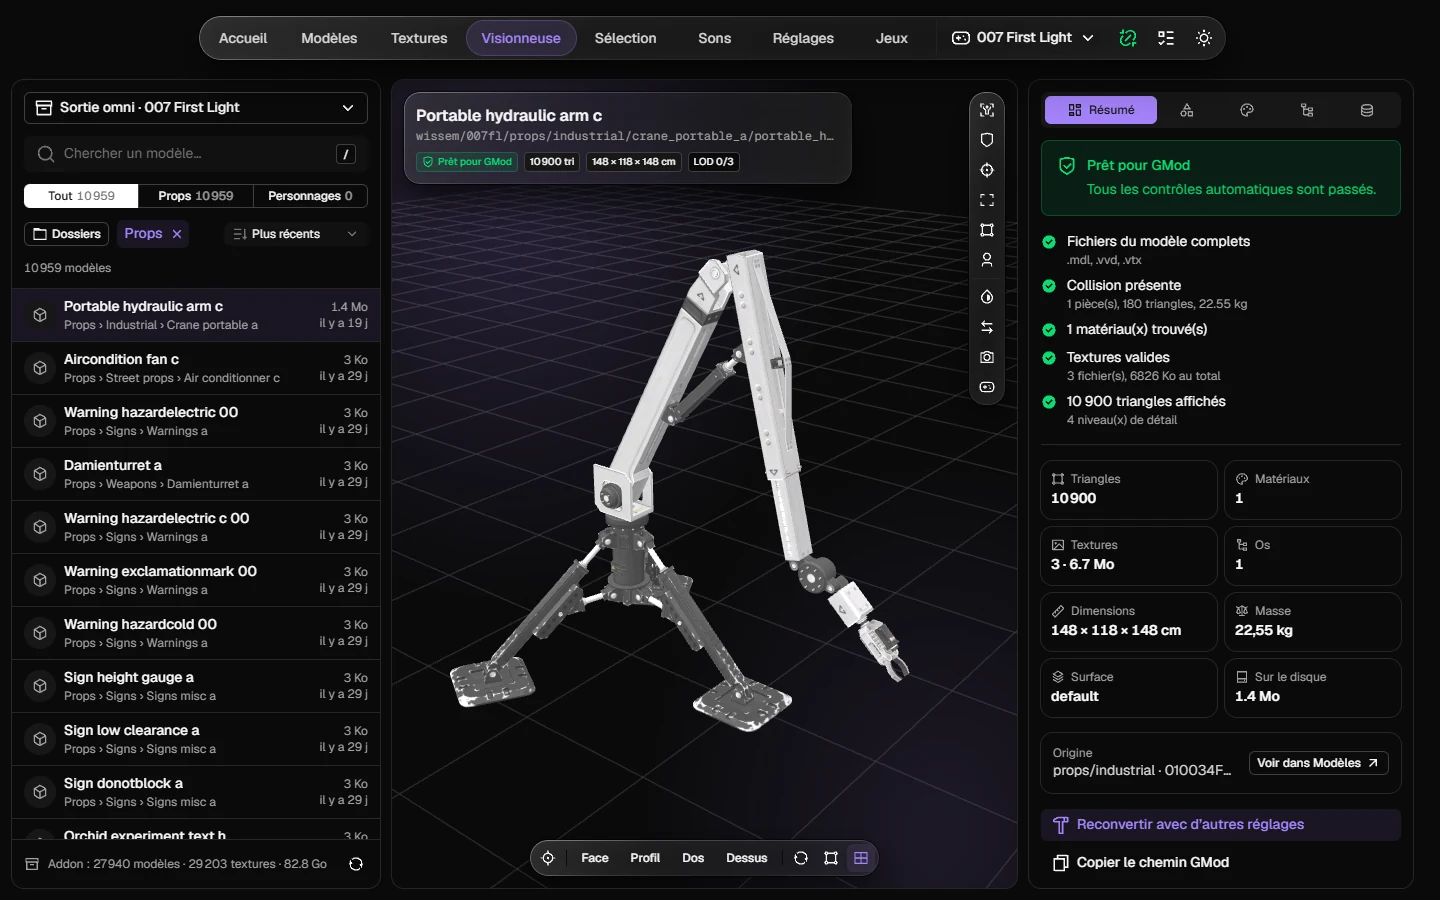
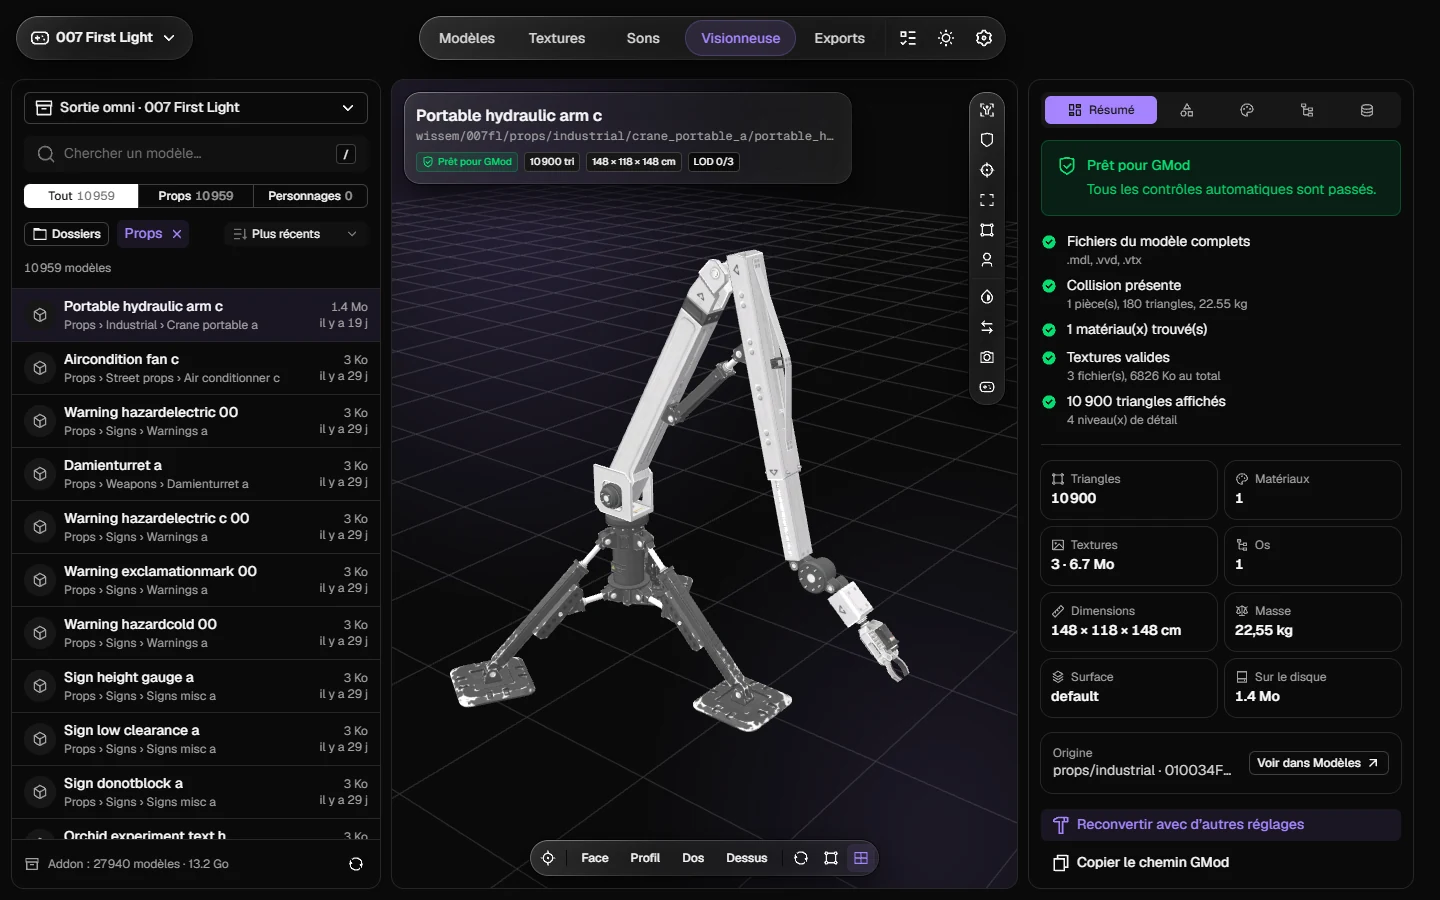
fix: Omni cover with its new navigation (#47)

Changed region(s): [[0.0, 0.0, 0.75, 0.0933], [0.125, 0.9333, 0.2188, 0.9644], [0.7812, 0.0311, 0.8125, 0.0622]]

diff --git a/CHANGELOG.md b/CHANGELOG.md
@@ -4,6 +4,10 @@ All notable changes to this project are documented here. The format follows [Kee
 
 ## [Unreleased]
 
+### Changed
+
+- Omni cover and sharing images show its new navigation.
+
 ## [1.6.0] - 2026-11-09
 
 ### Added
